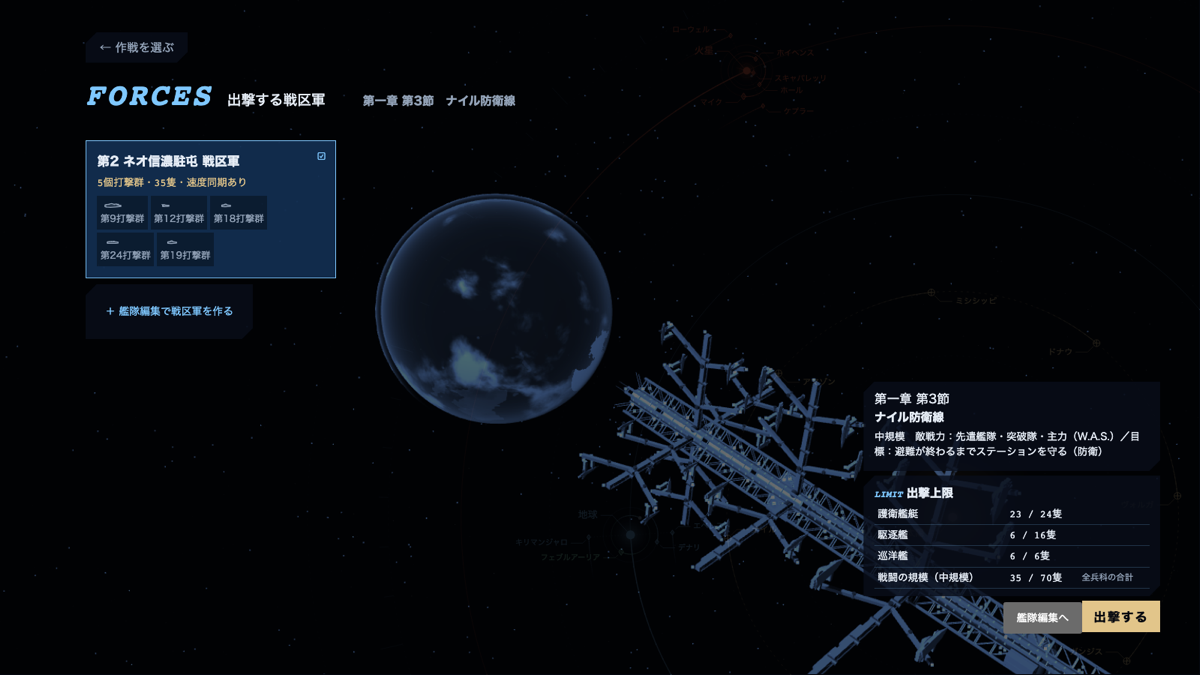
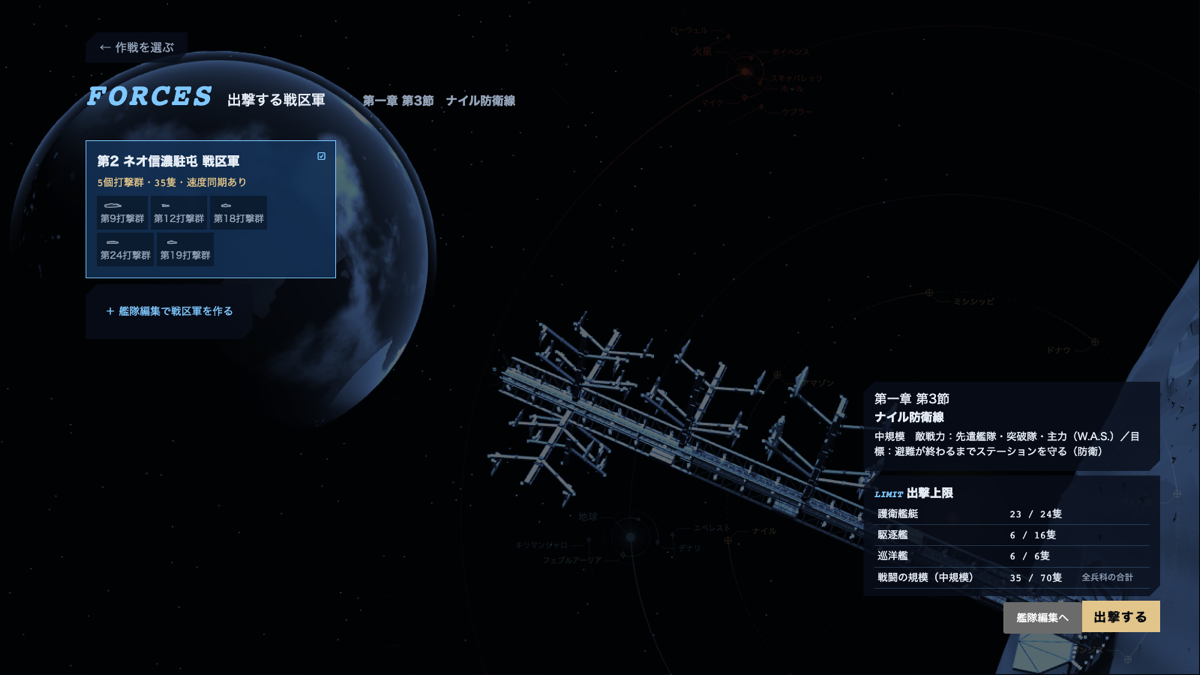
軍港の背景の構図を引きに: 柱が右下の根元から左上の地球へ長く伸び、表面とゲートが少し見える

Changed region(s): [[0.0, 0.0622, 1.0, 1.0], [0.7708, 0.6844, 0.8017, 0.7156], [0.2158, 0.4044, 0.2467, 0.4356]]

diff --git a/prep-dock.js b/prep-dock.js
@@ -19,9 +19,9 @@ window.WOS_DOCK = (() => {
     const sp = []; for (let i = 0; i < 3000; i++) { const v = new THREE.Vector3(R() - .5, R() * .6, R() - .5).normalize().multiplyScalar(5000); sp.push(v.x, v.y, v.z); }
     const sg = new THREE.BufferGeometry(); sg.setAttribute('position', new THREE.Float32BufferAttribute(sp, 3));
     sc.add(new THREE.Points(sg, new THREE.PointsMaterial({ color: 0xaab8d8, size: 1.3, sizeAttenuation: false })));
-    // 地球: 南の地平線に半分かかる。視直径1.9度を、背景なので大きめに見せる
+    // 地球: 画面の左上、柱の先の向こう。視直径1.9度を、背景なので大きめに見せる
     const ER = 340, e = new THREE.Mesh(new THREE.SphereGeometry(ER, 96, 64), skyMat(0)); e.material.uniforms.uSun.value.copy(sun);
-    e.position.set(-1435, 2383, -1416); e.rotation.set(.4, 3.6, .2); e.material.uniforms.uSun.value.set(.6, -.5, .6).normalize(); sc.add(e);
+    e.position.set(599, 1295, -832); e.rotation.set(.4, 3.6, .2); e.material.uniforms.uSun.value.set(.6, -.5, .6).normalize(); sc.add(e);
     const h = skyHalo(ER); h.material.uniforms.uSun.value.copy(sun); h.position.copy(e.position); sc.add(h);
     // 岩の地面: ゆるい起伏と小さなクレーター
     const RB = 2600, G = new THREE.SphereGeometry(RB, 360, 110, 0, Math.PI * 2, 0, .62);
@@ -72,10 +72,9 @@ window.WOS_DOCK = (() => {
         for (let y = -6; y < TOP; y += 11) { for (const f of [-1, 1]) { beam(P(CORE + .6, f, y), P(XA, f, y), .55, steel); beam(P(CORE + .6, f, y), P(XA, f, y + 11), .4, dark); }
           beam(P(XA, -1, y), P(XA, 1, y), .55, steel); } }
       for (let y = 10; y < TOP; y += 44) for (const r of [Math.PI / 4, -Math.PI / 4]) { const b = add(new THREE.Mesh(new THREE.BoxGeometry(XA * 2 + 1.5, 1.4, XT + .8), dark), y); b.rotation.y = r; } }
-    /* the camera (user decision 2026-11-05): close and slanting, turned 20° so the column runs across the picture */
-    const CP = [495, 20, 495], CL = [57, 400, -57];
-    cam.position.set(...CP); cam.lookAt(...CL); cam.rotateZ(THREE.MathUtils.degToRad(-60));
-    cam.setViewOffset(W, H, -200, 0, W, H);
+    /* カメラ（ユーザー決定 2026-11-05、案 e）: 柱の横の引きから、柱が右下の根元から左上の地球へ長く伸びて見える。右下の端にフェブルアーリアの表面とゲート */
+    const CP = [-514, 247, 715], CL = [9, 391, 73];
+    cam.position.set(...CP); cam.lookAt(...CL); cam.rotateZ(THREE.MathUtils.degToRad(-67.2));
     renderer = r; scene = sc;
     let moving = null;
     const c = new THREE.Color(0x7fc8ff), ship = new THREE.MeshStandardMaterial({ color: 0x9aa7b8, emissive: c, emissiveIntensity: .05, metalness: .5, roughness: .42 });

diff --git a/docs/spec.md b/docs/spec.md
@@ -93,7 +93,7 @@
   - 形: 角を斜めに落とした半透明の板、斜めの英字の見出し＋日本語の名前（SORTIE 出撃 など）、斜めのタブ、10目盛りの斜めの帯（能力）。板の中に枠を重ねない。
   - 出撃: 押すとまずオフライン／オンラインを選ぶ。オンラインは「準備中」の入口だけ（中身は未定）。オフラインは作戦の選択で、左の一覧か地図の上の印で選ぶと、地図がその作戦の場所へ寄り、日付もその作戦の日へ進む。演習は太陽系の全体。
   - 出撃前の戦区軍の選択画面（ユーザー決定 2026-11-05）: オフラインの作戦の選択 → 戦区軍の選択画面 → 出撃。決まった艦隊の節（第1・2節）は通さない。左に戦区軍の札（中の打撃群を艦種マークのマスで）、右に作戦の要点・出撃上限・「艦隊編集へ」「出撃する」。「艦隊編集へ」で編成画面へ行き、編成画面の「← 出撃の準備へ」で戻る。見本は `docs/plans/sortie-forces-layout.png`。
-    - 背景はフェブルアーリアの軍港（見本 `docs/plans/dock-*.png`、作り方 `tools/dock-sample.cjs`）: ゲートのふたが南北に開き、縦穴から本柱が真上へ高く伸びる。本柱は上から見て × の骨組みで、真ん中に機材と人の往復用の昇降筒（灯りの窓）。段ごとに × の隙間から四方へ桟橋が出る。艦は桟橋の横に、艦首を柱へ向けて止め、筒の乗り込みの橋（空港のボーディングブリッジのよう）を2本かける。大型艦（戦艦・母艦）は1段2隻だけ（出られなくならないように）、上下の段で向きをずらす。小型艦は桟橋から上下へ外向きに斜めの枝を出し、枝の横に何隻も止める。艦は横へ離れるので、その道に別の艦や桟橋を置かない。桟橋と枝はヒンジで折り畳め、止める艦のいない桟橋は × の隙間に畳み込み、空いた枝は桟橋の上に畳む。畳んだ全体はゲートの口に収まる（戦闘中は縦穴へしまう）。止める艦は選んだ戦区軍の艦種と数（上限まで）。背景には地球と宇宙、フェブルアーリアの丸い地平線。
+    - 背景はフェブルアーリアの軍港（見本 `docs/plans/dock-*.png`、作り方 `tools/dock-sample.cjs`）: ゲートのふたが南北に開き、縦穴から本柱が真上へ高く伸びる。本柱は上から見て × の骨組みで、真ん中に機材と人の往復用の昇降筒（灯りの窓）。段ごとに × の隙間から四方へ桟橋が出る。艦は桟橋の横に、艦首を柱へ向けて止め、筒の乗り込みの橋（空港のボーディングブリッジのよう）を2本かける。大型艦（戦艦・母艦）は1段2隻だけ（出られなくならないように）、上下の段で向きをずらす。小型艦は桟橋から上下へ外向きに斜めの枝を出し、枝の横に何隻も止める。艦は横へ離れるので、その道に別の艦や桟橋を置かない。桟橋と枝はヒンジで折り畳め、止める艦のいない桟橋は × の隙間に畳み込み、空いた枝は桟橋の上に畳む。畳んだ全体はゲートの口に収まる（戦闘中は縦穴へしまう）。止める艦は選んだ戦区軍の艦種と数（上限まで）。背景には地球と宇宙、フェブルアーリアの丸い地平線。構図（ユーザー決定 2026-11-05）: 柱の横の引きから撮り、柱は右下の根元（ゲートとフェブルアーリアの表面が少し見える）から左上の地球へ長く伸びる。全体を他の背景と同じく青く透かす。
   - 艦種マーク（艦種ごとの印。編成画面・技術ツリーの兵科のタブ・戦闘の名札に使う）: オプションで A と B を選べる。A は艦を横から見た艦影（艦型識別表のように細身。外側の輪郭だけ、中の線なし。大きさの比率は `data/ships.js` の `scale` どおり。戦艦・巡洋艦の砲塔は甲板に据え、戦艦以降の艦橋は今の艦に少し寄せる。駆逐艦とフリゲートは見分けられる形に）。B は角を落とした枠に役目の印と大きさの目盛り。
   - 艦隊編集: 段は戦区軍と打撃群の2つ（支隊の段は打撃群の中で組む）。打撃群は、支隊の行に1隻ずつマスを並べて組む設計の画面（HoI4 の師団設計のような形）。マスで隻数、行の左で艦種、空いた行から支隊を加える。右に能力と編成ボーナス。戦区軍は、格子の空いたマスを押すと、まだ所属していない打撃群を加えるか、選んでいる打撃群を移す。所属の一覧は格子の下に細い行で（★で旗艦を選ぶ、外す）。
   - **画面の空間の使い方（ユーザー決定 2026-11-05、技術ツリーで）:** 中身の板（樹形図・表・格子）は、タブと見出しを除いた画面のほぼ全部を使う。空いたところを残さない。説明や詳細は画面の下に常に置く欄ではなく、押した物のそばに出る小さなウィンドウにし、×で閉じる。並べた物の間隔は、板の大きさに合わせて広げる（技術ツリーでは縦だけ。横は「いったんそのまま」）。ほかの画面を直すときも、この形を基本にする。
